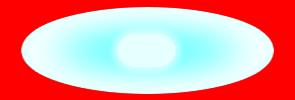
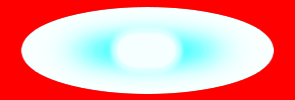
fix Dark note

Changed region(s): [[0.1831, 0.18, 0.8237, 0.84]]

diff --git a/Assets/Codes/Storage/ChartFormatV2.cs b/Assets/Codes/Storage/ChartFormatV2.cs
@@ -130,8 +130,8 @@ namespace V2
             {
                 beat = new int[] { -100, 0, 1 },
                 speed = new TransitionProperty<float>(1f),
-                tap = new TransitionColor(68, 223, 246),
-                tapGrey = new TransitionColor(128, 128, 128),
+                tap = new TransitionColor(113, 237, 255),
+                tapGrey = new TransitionColor(246, 246, 246),
                 flick = new TransitionColor(255, 59, 114),
                 slideTick = new TransitionColor(84, 230, 44),
                 slide = new TransitionColor(84, 230, 44)
